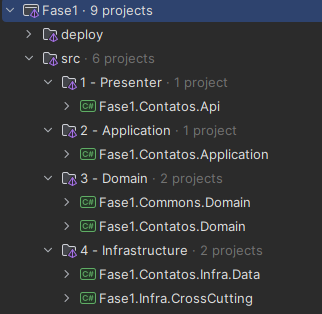
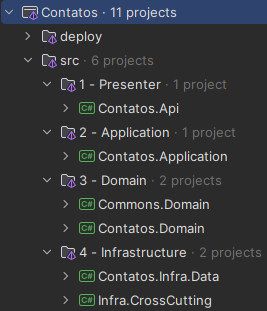
chore: atualizando o README.md

diff --git a/README.md b/README.md
@@ -1,40 +1,66 @@
-# API de Contatos ☎
-Este projeto é parte da entrega da atividade prática do curso de Arquitetura de Sistemas .NET com Azure. O objetivo é criar uma API de Contatos utilizando .NET com os testes de unidade necessários.
+# Tech Challenge - Arquitetura de Sistemas .NET com Azure 🚀
+Este projeto é parte da entrega da atividade prática do curso de **Arquitetura de Sistemas .NET com Azure**.
 
-## Tecnologias Utilizadas 🧑💻
+O Tech Challenge é dividido em 5 fases. A seguir, uma descrição sucinta de cada uma das fases em que esse repositório foi utilizado:
+
+- **Fase 1**: Implementação de uma API Web para cadastrar, buscar, atualizar e excluir contatos. A API deve permitir que o contato seja localizado por região, a partir de um código DDD informado pelo usuário.
+- **Fase 2**: Incluir testes de integração na API desenvolvida na Fase 1, implementar um pipeline de CI/CD e monitorar a API com Prometheus e Grafana.
+
+## Tecnologias Utilizadas ⚙
+
+### API
 - .NET 8
-- Entity Framework Core
-- Docker
+  - Entity Framework Core
+  - Dapper
+  - xUnit
+### Base de dados
 - PostgreSQL
-- xUnit
+
+### Ambiente de desenvolvimento
+- Docker
+
+### Telemetria e Observabilidade
+- Prometheus
+- Grafana
 
 ## Arquitetura 🏛
 A arquitetura do projeto foi baseada na abordagem do DDD (Domain Driven Design) e Clean Architecture. A estrutura do projeto foi dividida em camadas, sendo elas:
 
 ### Presenter 
-- **Fase1.Contatos.Api**: Camada de apresentação da aplicação, responsável por receber as requisições HTTP e retornar as respostas.
+- **Contatos.Api**: Camada de apresentação da aplicação, responsável por receber as requisições HTTP e retornar as respostas ao solicitante.
 
 ### Application 
-- **Fase1.Contatos.Application**: Camada de aplicação, responsável por orquestrar as chamadas aos métodos de repositório e realizar as validações necessárias.
+- **Contatos.Application**: Camada de aplicação, responsável por orquestrar as chamadas aos métodos de repositório e realizar as validações necessárias para o processamento de um fluxo (Caso de Uso).
 
 ### Domain 
-- **Fase1.Contatos.Domain**: Camada de domínio, responsável por armazenar as entidades e interfaces de repositório.
-- **Fase1.Commons.Domain**: Camada de compartilhamento, responsável por armazenar classes e métodos que são compartilhados entre as demais camadas.
+- **Contatos.Domain**: Camada de domínio, responsável por armazenar as entidades e interfaces de repositório.
+- **Commons.Domain**: Camada de compartilhamento, responsável por armazenar classes e métodos que são compartilhados entre as demais camadas.
 
 ### Infraestrutura
-- **Fase1.Contatos.Infra.Data**: Camada de infraestrutura, responsável por implementar as interfaces de repositório e realizar a comunicação com o banco de dados.
+- **Contatos.Infra.Data**: Camada de infraestrutura, responsável por implementar as interfaces de repositório e realizar a comunicação com o banco de dados.
 
-## Overview da arquitetura 🗃
+### Overview da arquitetura 🗃
 
 ![assets/solution.png](assets/solution.png)
 
 ## Testes 🧪
-Os testes unitários foram implementados utilizando a biblioteca xUnit. Para executar os testes, basta executar o comando `dotnet test` na raiz do projeto.
+Na Fase 1, foram implementados testes unitários e a fase 2 contempla a implementação de testes de integração.
+Os testes foram implementados utilizando a biblioteca xUnit. 
+### Executando os testes
+Para executar os testes, basta executar o seguinte comando na comando na raiz do projeto:
+```bash
+dotnet test
+```
+### Cobertura de Testes
+A cobertura de testes foi realizada utilizando a ferramenta **Coverlet** e **Report Generator** para uma exibição dos resultados. 
+Para visualizar a cobertura de testes, execute o seguinte comando na raiz do projeto:
+```bash
+dotnet test --collect:"XPlat Code Coverage" --results-directory ./test/results/coverlet/ && reportgenerator -reports:test/results/coverlet/**/coverage.cobertura.xml -targetdir:test/results/coverage-report -reporttypes:Html
+```
+O relatório de cobertura de testes estará disponível na pasta `test/results/coverage-report/index.html`.
+Além disso, o relatório de cobertura de testes é executado automaticamente no pipeline de CI/CD a cada integração com a branch principal `(main)` e pode ser visualizado no [GitHub Pages](https://pedrobarao.github.io/fiap.5nett.contatos/) do projeto.
 
-### Cobertura de Testes 🤗
-A cobertura de testes foi de 78% dos métodos da aplicação, de acordo com o dotCover. Um relatório detalhado pode ser encontrado na pasta `coverage`.
-
-## Executando a aplicação 🚀
+## Executando a aplicação ✔
 
 ### Requisitos
 - .NET 8
@@ -42,14 +68,19 @@ A cobertura de testes foi de 78% dos métodos da aplicação, de acordo com o do
 
 ### Passo a passo
 
-1 - Na raíz do projeto execute o seguinte comando:
-```bash
-docker compose -f .\deploy\docker-compose.yaml -p fase1 up -d --build
-```
-Esse comando irá fazer o build da aplicação e subir o container com a aplicação e o banco de dados.
+1 - Certifique-se de que o Docker esteja rodando em sua máquina.
 
-2 - Utilize o comando a baixo para atualizar a base de dados com as migrations:
+2 - Na raíz do projeto execute o seguinte comando:
+```bash
+docker compose -f .\deploy\docker-compose.yaml -p contatos up -d --build
+```
+Esse comando irá fazer o build da aplicação e subir o container com a aplicação e recursos necessários.
+
+3 - Ao iniciarmos a aplicação pela primeira vez o migrations para criação do banco de dados será executado. Para fazer isso manualmente execute o seguinte comando:
 ```bash
 dotnet ef database update -p .\src\Fase1.Contatos.Infra.Data\Fase1.Contatos.Infra.Data.csproj -s .\src\Fase1.Contatos.Api\Fase1.Contatos.Api.csproj -c ContatoDbContext
 ```
 Pronto! A aplicação está pronta para ser utilizada.
+
+### Monitorando a API 🔎
+
